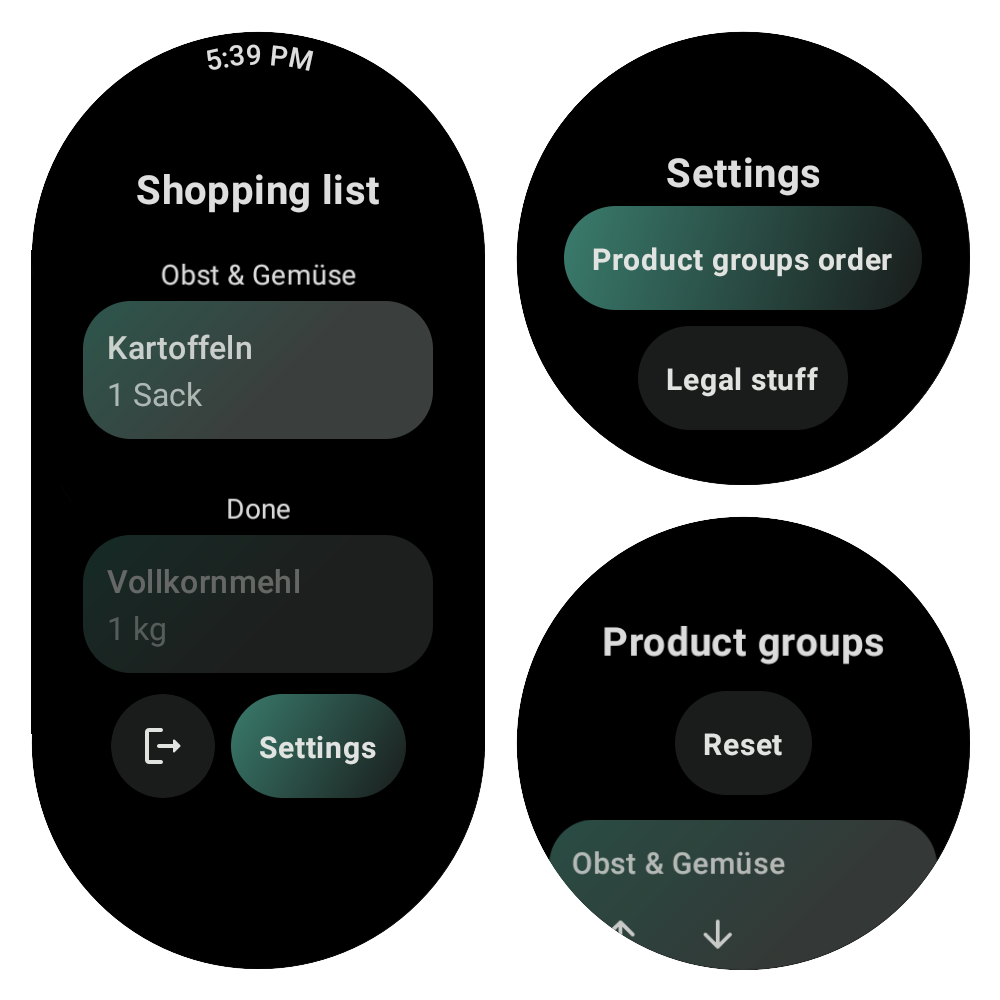
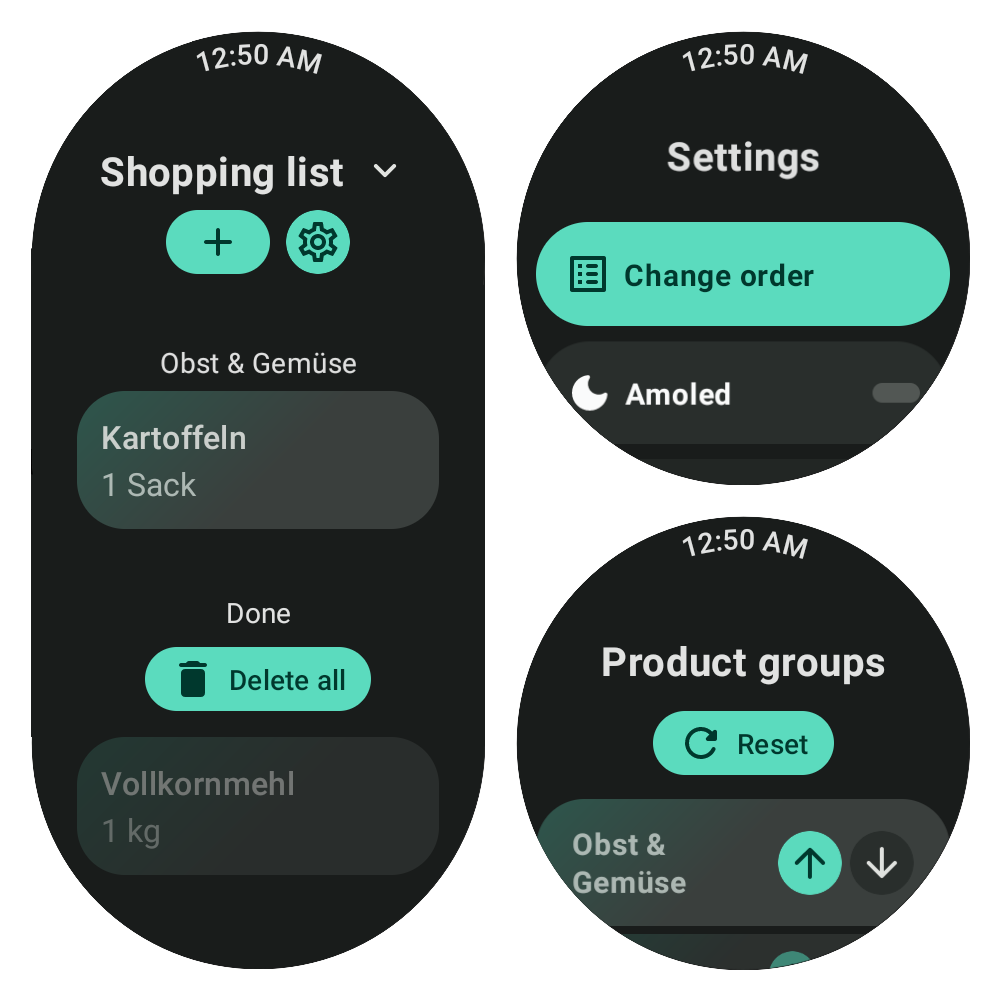
docs(README): adapted to release 1.6

diff --git a/README.md b/README.md
@@ -7,9 +7,12 @@ Grocy for Wear OS is an unofficial client for the grocy groceries & household ma
 Currently the app only works as a viewer for shopping lists, but more features may be supported in the future (if I'll have time to do that ¯\\\_(ツ)_/¯)
 
 ## Supported features ##
-- [x] Shopping list
+- [x] Shopping lists
 	- [x] Marking items as done
 	- [x] Reordering product groups
+	- [x] Adding new items
+	- [x] Deleting items that are marked as done
+	- [x] Switching between different shopping lists
 	
 ## Downloads ##
 <a href='https://play.google.com/store/apps/details?id=de.kauker.unofficial.grocy'>
